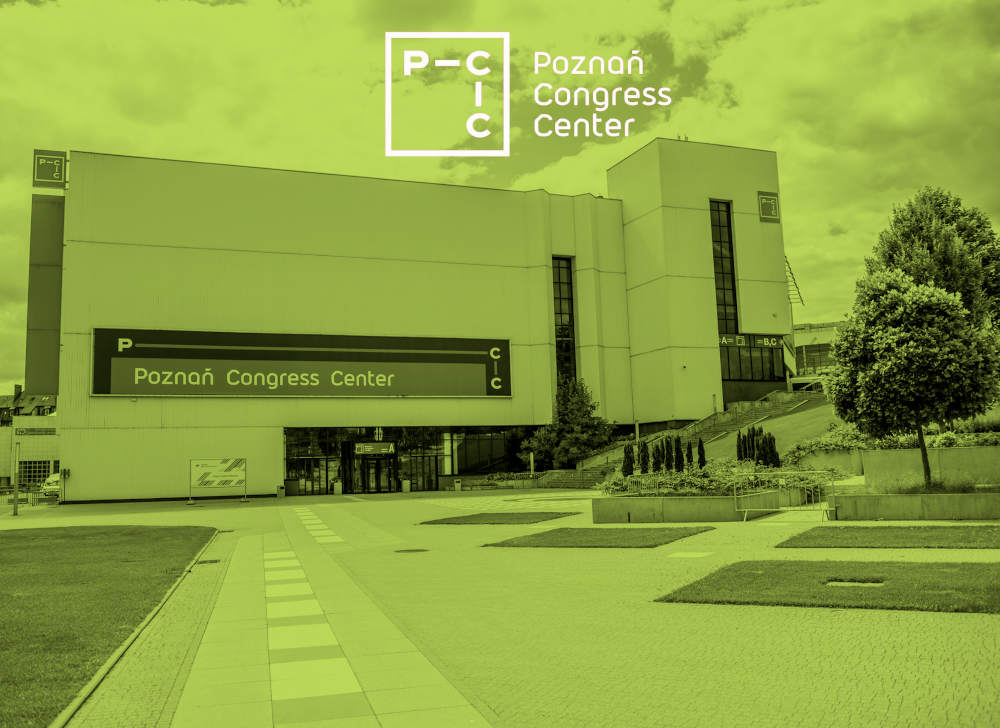
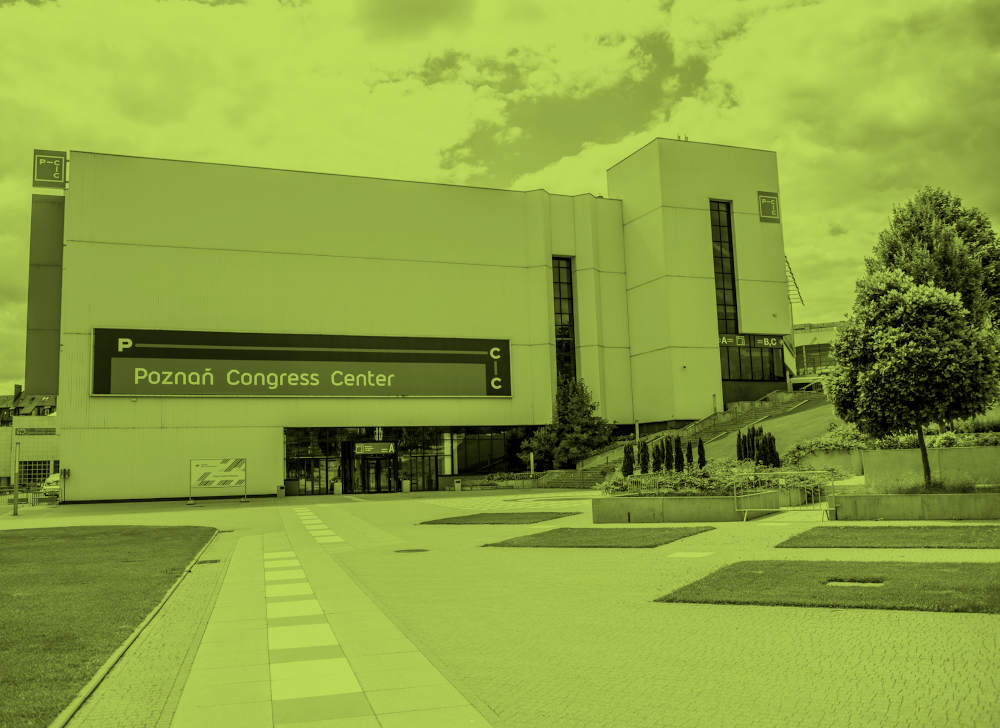
mobile scaling tweaks

Changed region(s): [[0.372, 0.0302, 0.682, 0.2418]]

diff --git a/src/scss/components/_typography.scss b/src/scss/components/_typography.scss
@@ -1,10 +1,10 @@
 %main-heading {
   @extend %font-bold;
 
-  font-size: 3.2rem;
+  font-size: 3rem;
 
   @include mediaquery('gt-medium') {
-    font-size: 4.8rem;
+    font-size: 4.4rem;
   }
 
   &--white {
@@ -16,8 +16,8 @@
   @extend %main-heading;
   position: absolute;
   top: 0;
-  left: 0;
-  padding: 16px 64px 16px 32px;
+  left: -5%;
+  padding: 16px 42px 16px 32px;
   margin: 0;
   transform: translateY(-33.333%) rotate(-2deg);
   color: $white_color;
@@ -29,6 +29,7 @@
   @include mediaquery('gt-medium') {
     left: 15%;
     padding-left: 80px;
+    padding-right: 80px;
   }
 }
 

diff --git a/src/scss/modules/_venue.scss b/src/scss/modules/_venue.scss
@@ -1,6 +1,10 @@
 .venue {
   position: relative;
-  padding: 16vw 0 0 0;
+
+  padding: 144px 0 0 0;
+  @include mediaquery('gt-small') {
+    padding: 16vw 0 0 0;
+  }
 
   background: $lightgrey_color url(../images/venue/pccmobile.jpg) no-repeat top / contain;
   @include mediaquery('gt-medium') {
@@ -23,7 +27,7 @@
   &__map {
     border-bottom: 5px solid $green_color;
     display: block;
-    overflow: visible;
+    overflow: hidden;
 
     & img {
       width: 200%;
